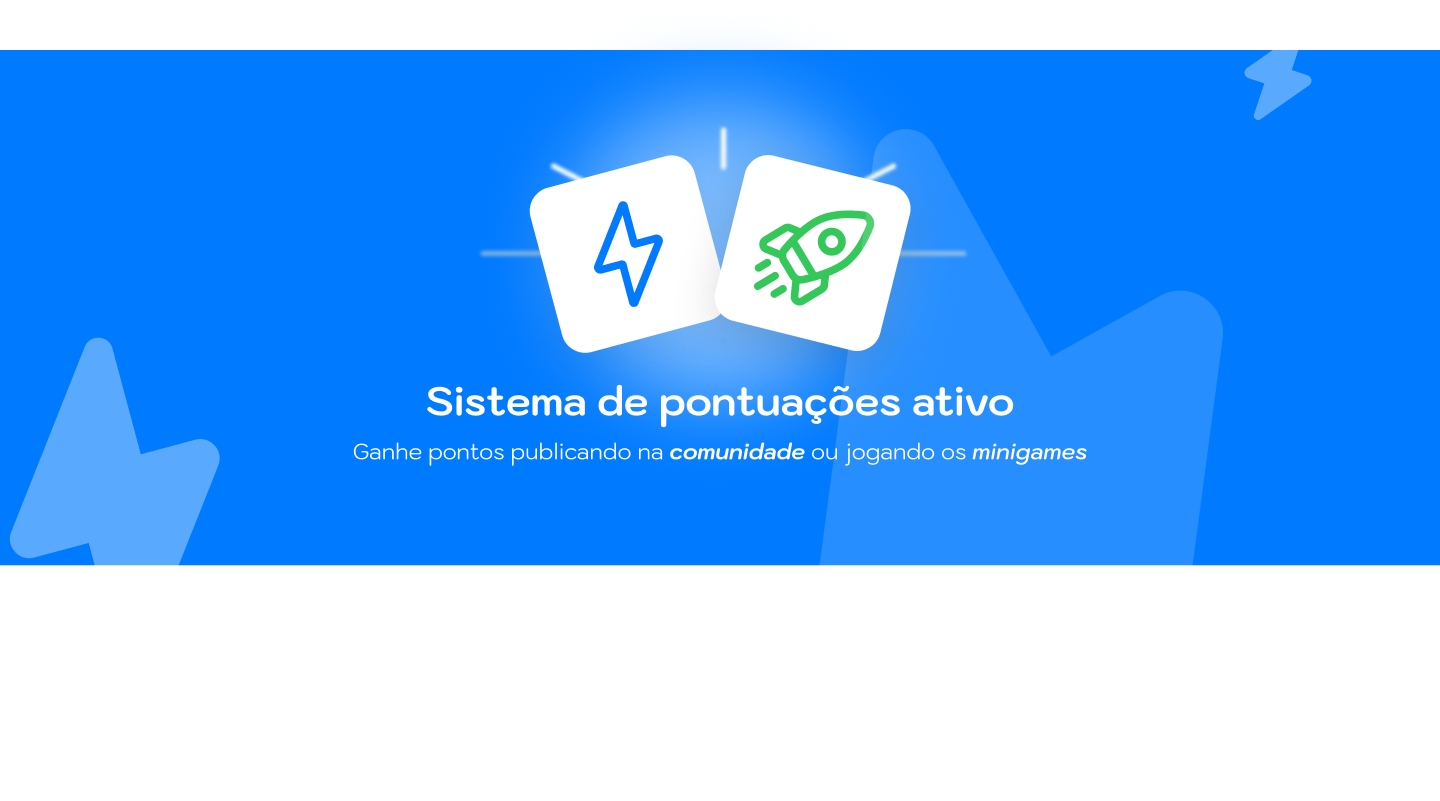
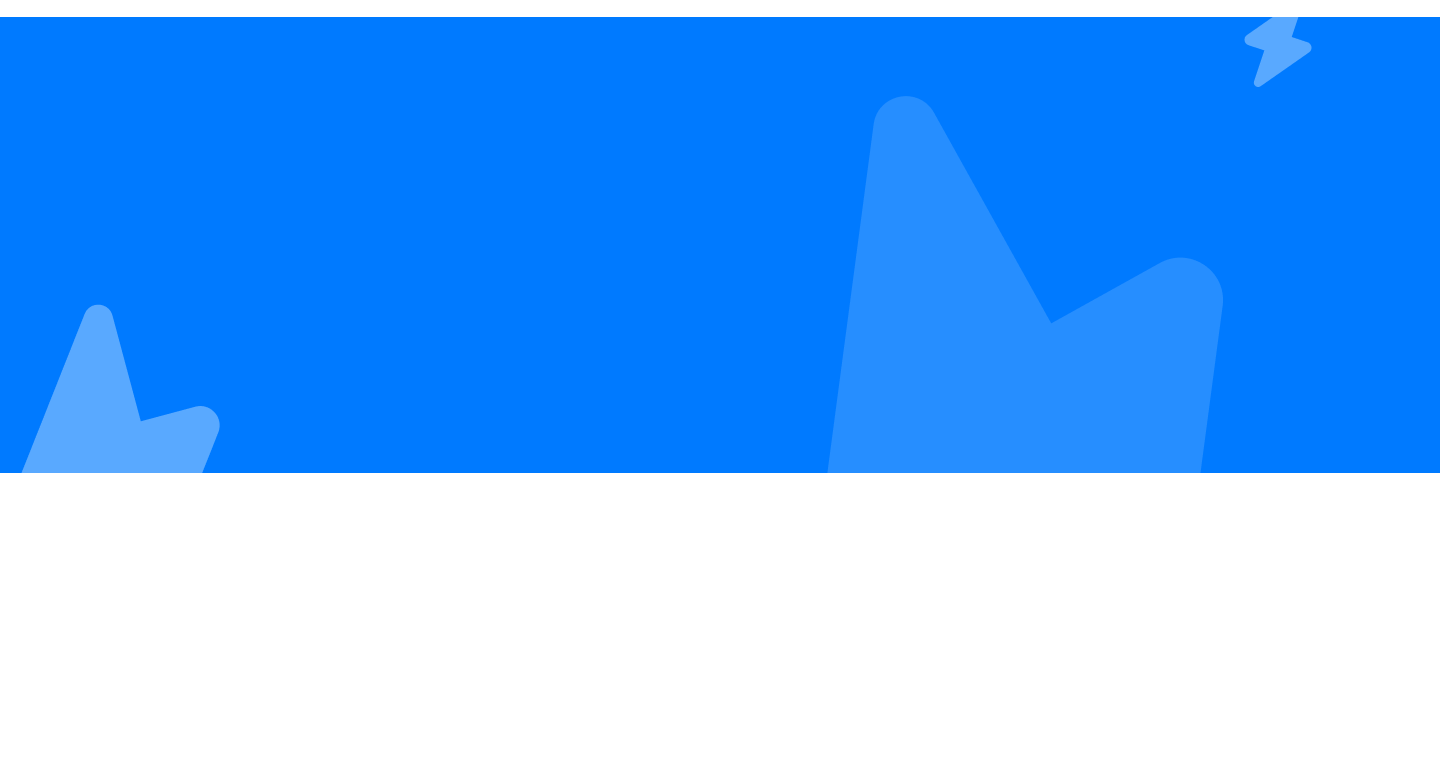
Landing page concluida

Changed region(s): [[0.0, 0.0, 1.0, 0.7188], [0.0312, 0.375, 0.0938, 0.5312], [0.7188, 0.3125, 0.8438, 0.4375]]

diff --git a/organizei/src/pages/Landing Page/LandingPage.tsx b/organizei/src/pages/Landing Page/LandingPage.tsx
@@ -10,11 +10,13 @@ import backgroundCards from '../../../assets/backgroundCards.png';
 import chatIA from '../../../assets/chatIA.png';
 import baralhoImg from '../../../assets/BaralhoAlinhado.png';
 import backgroundPontos from '../../../assets/backgroundPontos.png';
+import backgroundCelular from '../../../assets/backgroundCelular.png';
+import jogosFoto from '../../../assets/jogosFoto.png';
 
 const Container = styled.div`
   
   margin: 0 ;
-  padding: 20px;
+//   padding: 20px;
   background-color: #E9E8E8
 `;
 
@@ -22,7 +24,7 @@ const Header = styled.header`
   display: flex;
   justify-content: space-between;
   align-items: center;
-  padding: 20px 30px;
+  padding: 20px 40px;
 `;
 
 const LeftGroup = styled.div`
@@ -85,6 +87,18 @@ const Button = styled.button`
   &:hover {
     background-color: #0066ff;
     transform: translateY(-2px);
+  }
+`;
+
+const ButtonWhite = styled.button`
+  background-color: #fff;
+  color: #000;
+  margin: 0 auto;
+  font-size: 18px;
+  padding: 15px 30px;
+  &:hover {
+    background-color: #0066ff;
+    color: #ffffff;
   }
 `;
 
@@ -175,6 +189,11 @@ const SectionTitle = styled.p`
   }
 `;
 
+const SectionTitleWhite = styled(SectionTitle)`
+  color: white;
+  margin-bottom: 20px;
+`;
+
 const AISection = styled.section`
   display: grid;
   grid-template-columns: 1fr 1fr;
@@ -214,7 +233,6 @@ const GamesSection = styled.section`
   padding-top:0px;
   margin-top: 100px;
   padding-bottom: -100px;
-  margin-left: -30px;
   background-color: #ffffff;
 
 `;
@@ -284,8 +302,8 @@ const PointsSection = styled.section`
   background-position: center;
   background-repeat: no-repeat;
   color: white;
-  padding: 500px 0;
-  width: 100vw;
+  padding: 650px 0 0 0;
+  width: 110vw;
   margin-left: -50px;
   text-align: center;
   border-radius: 30px;
@@ -293,25 +311,37 @@ const PointsSection = styled.section`
   position: relative;
   overflow: hidden;
 
-  &::before {
+  &::after {
     content: '';
     position: absolute;
-    top: 0;
+    bottom: 0;
     left: 0;
     right: 0;
-    bottom: 0;
-    background: linear-gradient(45deg, rgba(255,255,255,0.1) 0%, rgba(255,255,255,0) 100%);
+    height: 100px;
+    background: linear-gradient(to bottom, transparent, #E9E8E8);
     pointer-events: none;
   }
 `;
 
 const CTASection = styled.section`
+  position: relative;
   text-align: center;
-  padding: 100px 0;
+  padding: 140px 0px;
   background-color: #111;
+  background-image: url(${backgroundCelular});
+  background-size: cover;
+  background-position: center;
+  background-repeat: no-repeat;
   color: white;
-  border-radius: 30px;
-  margin-bottom: 40px;
+  margin: 0;
+  margin-top: -223px;
+  width: 100vw;
+
+`;
+
+const CTAContainer = styled.div`
+  max-width: 100%;
+  margin: 0;
 `;
 
 const CardStackImg = styled.img`
@@ -358,6 +388,52 @@ const ChatIAImg = styled.img`
   max-width: 650px;
   border-radius: 20px;
   box-shadow: 0 8px 16px rgba(0,0,0,0.1);
+`;
+
+const CTADescription = styled.p`
+  font-size: 20px;
+  margin-bottom: 30px;
+  color: #ffffff;
+  span {
+    font-weight: 800;
+    color: #ffffff;
+  }
+`;
+const Jogos = styled.img`
+  width: 70%;
+  max-width: 370px;
+ position: absolute;
+ top: -30px;
+ right: 42%;
+
+
+ 
+`;
+const DivTextoPontos = styled.div`
+  position: absolute;
+  top: 42%;
+  right: 31%;
+  bottom: 0px;
+
+`;
+const TitlePontos = styled.p`
+  font-size: 36px;
+  margin-bottom: 15px;
+  text-align: center; 
+`;
+const SubTituloPontos = styled.p`
+  font-size: 22px;
+  margin-bottom: 40px;
+  text-align: center; 
+`;
+const Footer = styled.footer`
+  background-color: #000000;
+  color: #ffffff;
+  padding: 30px;
+  text-align: center;
+  display: flex;
+  justify-content: space-between;
+  align-items: center;
 `;
 
 export function LandingPage() {
@@ -452,28 +528,33 @@ export function LandingPage() {
       </GamesSection>
 
       <PointsSection>
-        {/* <SectionTitle style={{ color: 'white', marginBottom: '20px' }}>
-          Sistema de pontuações ativo
-        </SectionTitle>
-        <p style={{ fontSize: '20px', opacity: 0.9 }}>
-          Ganhe pontos publicando na comunidade ou jogando os minigames
-        </p> */}
+        <Jogos src={jogosFoto} alt="Jogos" />
+        <DivTextoPontos>
+        <TitlePontos>Sistema de pontuações ativo</TitlePontos>
+        <SubTituloPontos>Ganhe pontos publicando na comunidade ou jogando os minigames</SubTituloPontos>
+        </DivTextoPontos>
       </PointsSection>
 
       <CTASection>
-        <SectionTitle style={{ color: 'white', marginBottom: '20px' }}>
-          Estude de forma inteligente
-        </SectionTitle>
-        <p style={{ fontSize: '20px', opacity: 0.8, marginBottom: '30px' }}>
-          Utilize o Organizei hoje mesmo
-        </p>
-        <Button 
-          onClick={() => navigate("/login")}
-          style={{ margin: '0 auto', fontSize: '18px', padding: '15px 30px' }}
-        >
-          Iniciar o app ↗
-        </Button>
+        <CTAContainer>
+          <SectionTitleWhite>
+            Estude de forma inteligente
+          </SectionTitleWhite>
+          <CTADescription>
+            Utilize o <span>Organiz.ei</span> hoje mesmo
+          </CTADescription>
+          <Button 
+            onClick={() => navigate("/login")}
+            as={ButtonWhite}
+          >
+            Iniciar o app ↗
+          </Button>
+        </CTAContainer>
       </CTASection>
+      <Footer>
+        <p>Organiz.ei</p>
+        <p>Todos os direitos reservados</p>
+      </Footer>
     </Container>
   );
 }
